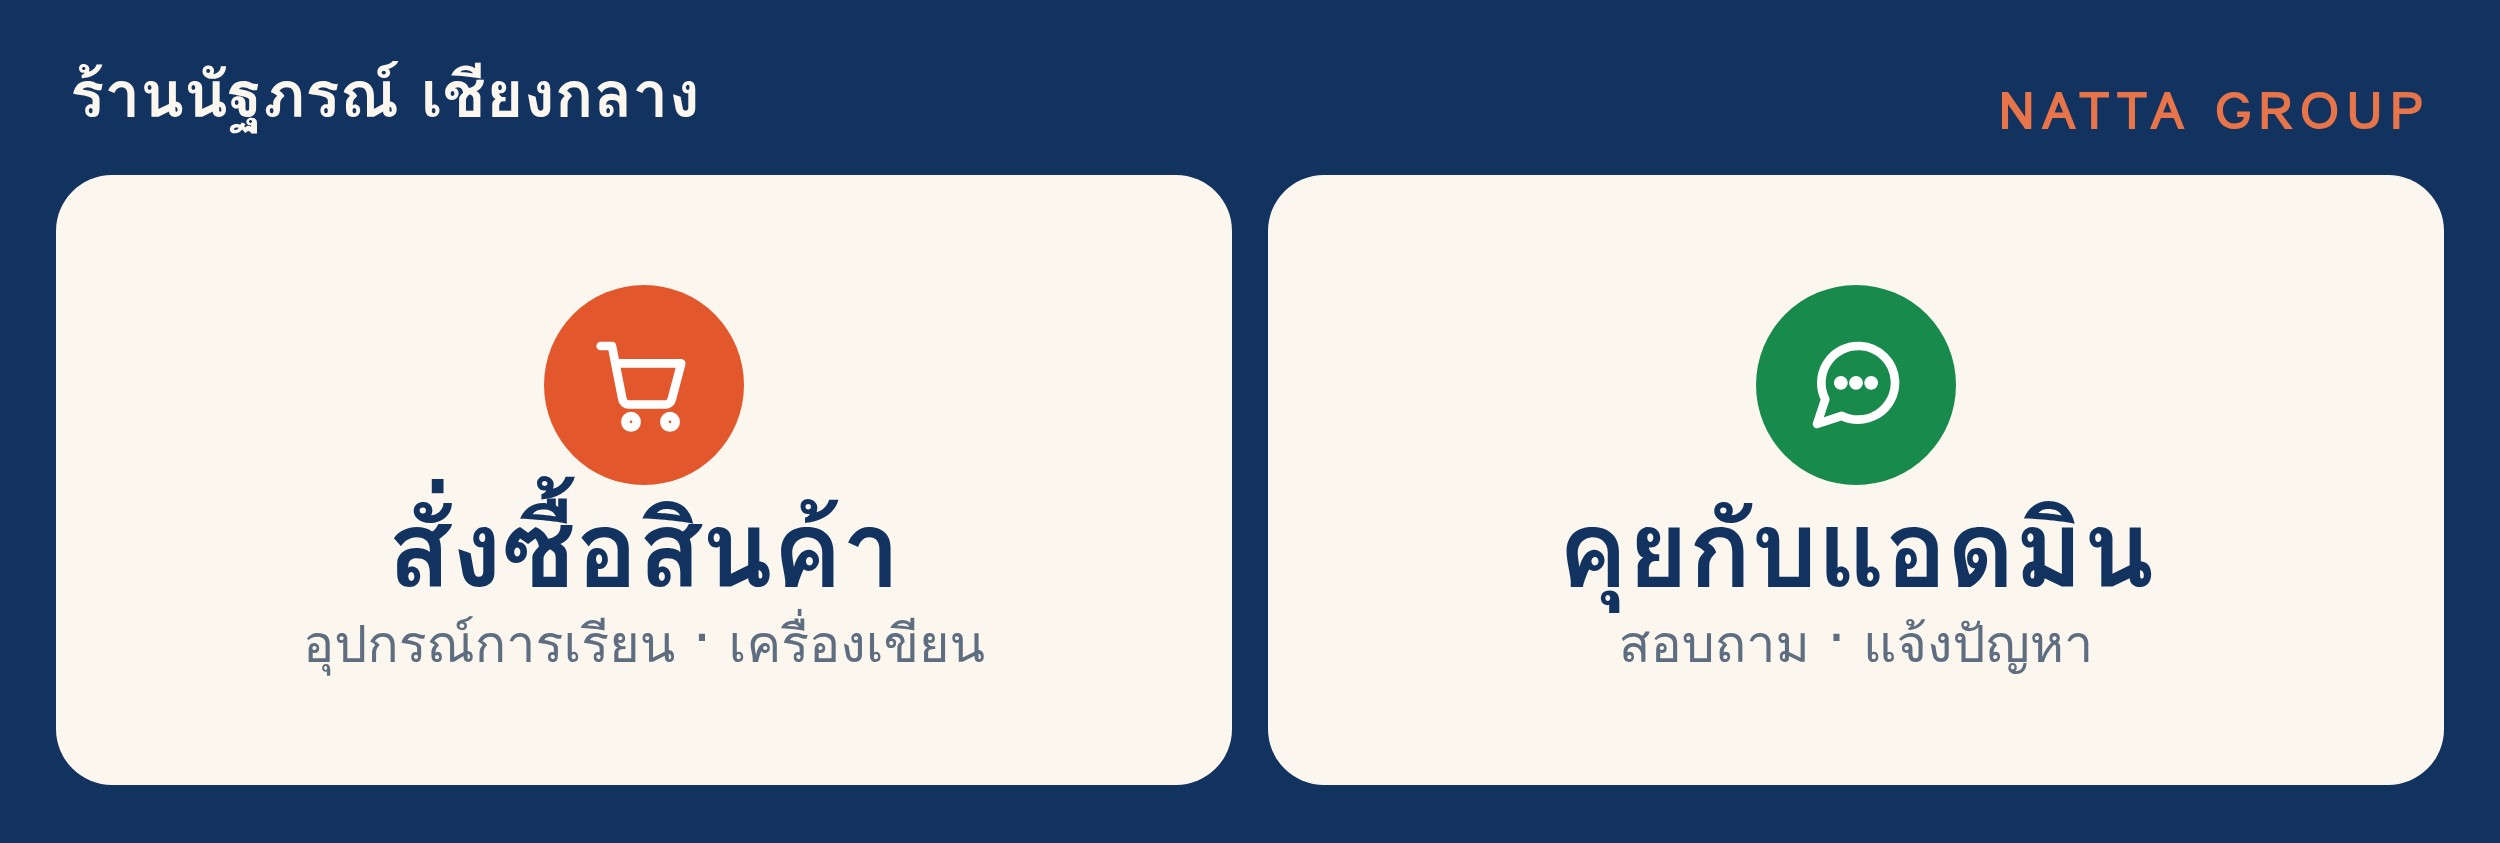
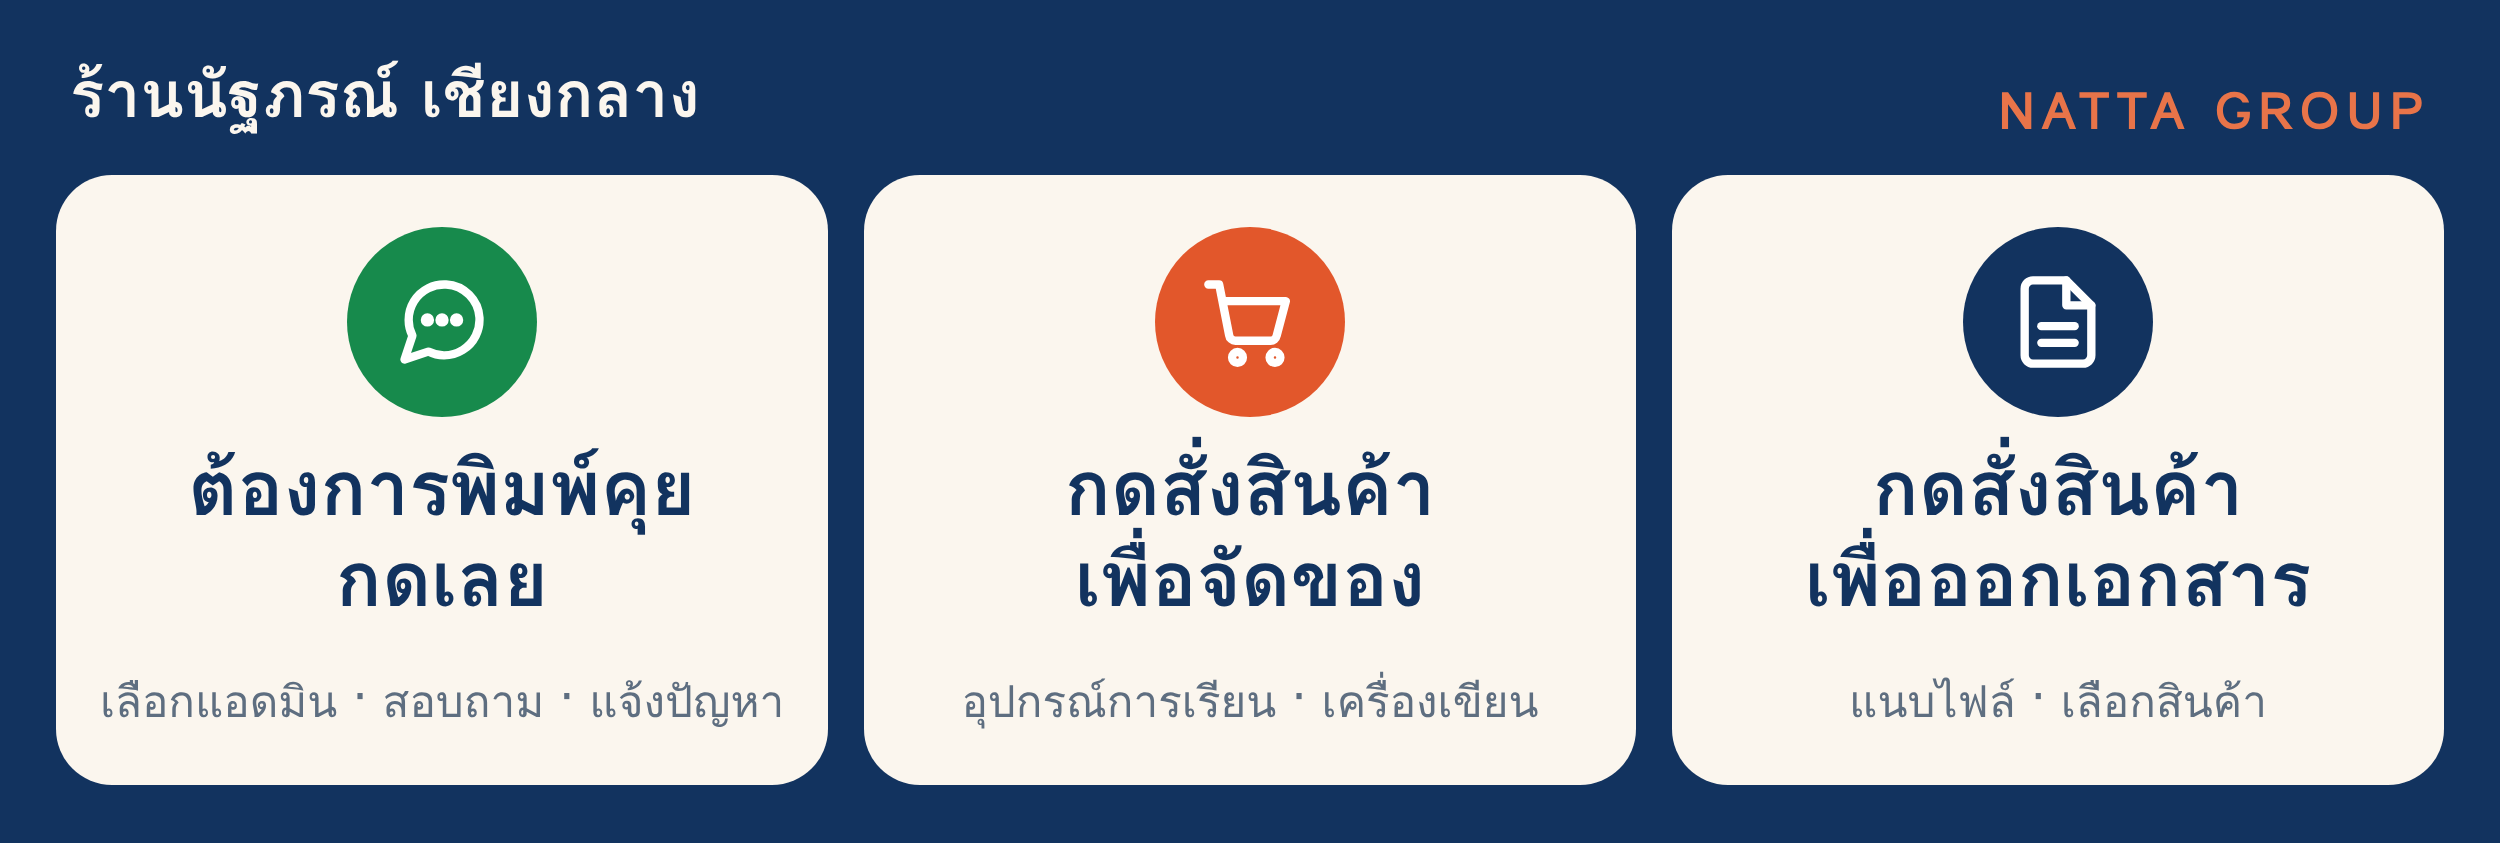
feat(stationery-bot): three-button rich menu — talk to an admin, order for picking, order with documents
The owner asked for the shop menu under the chat to read:
  1. "ต้องการพิมพ์คุย กดเลย"        → sends "คุยกับแอดมิน"  → the bot asks who to talk to and shows the admin names
  2. "กดสั่งสินค้าเพื่อจัดของ"       → opens https://www.nattagroup.com
  3. "กดสั่งสินค้าเพื่อออกเอกสาร"   → sends "ส่งเอกสารโครงการ"

- assets/richmenu.png: new 2500×843 picture with the three cards (120 KB, under LINE's 1 MB)
- public/richmenu-v2.png: the same file, served at /assets/richmenu-v2.png so the shop app's
  `line-richmenu` function can download it (it checks the SHA-256 before uploading to LINE);
  a test keeps the two copies byte-identical
- shop.json richMenu.areas: the three buttons above (bot's own installer builds the same menu)
- tests: three equal columns (833/833/834) with one uri action, the button texts reach the
  "who do you want to talk to?" card, tap recognition for the new texts
- README: how the live menu is made and how to roll back to v1

Claude-Session: https://claude.ai/code/session_017kYrAdUH6vfQHcrjctLsLJ

Changed region(s): [[0.0312, 0.1851, 0.624, 0.9561], [0.624, 0.1851, 0.936, 0.9561]]

diff --git a/stationery-bot/tests/richmenu.test.js b/stationery-bot/tests/richmenu.test.js
@@ -35,19 +35,32 @@ test('the menu is one row of equal tappable columns, open by default, inside LIN
   assert.deepEqual(m.size, { width: 2500, height: 843 });
   assert.equal(m.selected, true);
   assert.ok([...m.chatBarText].length <= 14);
-  assert.equal(m.areas.length, 2);
+  assert.equal(m.areas.length, 3);
   let x = 0;
   for (const a of m.areas) {
     assert.equal(a.bounds.x, x); // no gaps, no overlap
     assert.ok(a.bounds.y >= 0 && a.bounds.y + a.bounds.height <= HEIGHT);
     assert.ok(a.bounds.width > 0);
     x += a.bounds.width;
-    assert.equal(a.action.type, 'message');
+    assert.ok(['message', 'uri'].includes(a.action.type));
     assert.ok([...a.action.label].length <= 20);
   }
   assert.equal(x, WIDTH); // the columns cover the whole width
-  assert.deepEqual(m.areas.map((a) => a.action.text), ['สั่งของ', 'ติดต่อแอดมิน']);
+  assert.deepEqual(m.areas.map((a) => a.bounds.width), [833, 833, 834]);
   assert.equal(m.areas[0].bounds.y, 150); // the title strip is not tappable
+});
+
+test('the three buttons: talk to an admin (the bot asks who) · order for picking (the shop site) · order with documents', () => {
+  const [chat, order, docs] = buildRichMenu(shop).areas.map((a) => a.action);
+  assert.equal(chat.type, 'message');
+  assert.equal(chat.text, 'คุยกับแอดมิน');
+  assert.deepEqual([order.type, order.uri], ['uri', 'https://www.nattagroup.com']);
+  assert.equal(docs.type, 'message');
+  assert.equal(docs.text, 'ส่งเอกสารโครงการ');
+  // …and what the first and third buttons send really does bring up the "who do you want to talk to?" card
+  assert.equal(buildReply(chat.text, shop, {}).needsPhotos, true);
+  assert.equal(buildReply(docs.text, shop, {}).needsPhotos, true);
+  assert.equal(buildReply(docs.text, shop, {}).askText, shop.contact.documentAsk);
 });
 
 test('a column can open a web page; only https links are accepted', () => {
@@ -74,6 +87,14 @@ test('the menu picture in the project is exactly what LINE accepts: PNG, 2500×8
   assert.ok(img.bytes.length < MAX_BYTES);
   assert.equal(img.bytes.readUInt32BE(16), 2500);
   assert.equal(img.bytes.readUInt32BE(20), 843);
+});
+
+test('the copy served to the shop app (public/richmenu-v2.png) is the very same picture', () => {
+  // The app's `line-richmenu` function downloads the picture from <host>/assets/richmenu-v2.png and checks its
+  // SHA-256 before uploading it to LINE — so the two files must never drift apart.
+  const served = readFileSync(new URL('../public/richmenu-v2.png', import.meta.url));
+  assert.equal(served.length, readFileSync(IMAGE).length);
+  assert.ok(served.equals(readFileSync(IMAGE)));
 });
 
 test('a missing, oversized, wrong-type or wrong-size picture is explained, not sent to LINE', () => {
@@ -158,7 +179,7 @@ test('admin commands: "ติดตั้งเมนู" / "ลบเมนู"
 });
 
 test('what a menu button or a topic chip sends is recognised as a tap', () => {
-  for (const t of ['สั่งของ', 'ติดต่อแอดมิน', 'เวลาเปิด - ปิด', 'ที่ตั้งร้าน', 'สั่งของค่ะ']) assert.equal(isMenuTap(t, shop), true, t);
+  for (const t of ['คุยกับแอดมิน', 'ส่งเอกสารโครงการ', 'ติดต่อแอดมิน', 'เวลาเปิด - ปิด', 'ที่ตั้งร้าน', 'คุยกับแอดมินค่ะ']) assert.equal(isMenuTap(t, shop), true, t);
   for (const t of ['xyz', 'สั่งของ 3 กล่อง', '', 'ขอถามหน่อย']) assert.equal(isMenuTap(t, shop), false, t);
 });
 

diff --git a/stationery-bot/README.md b/stationery-bot/README.md
@@ -132,17 +132,22 @@ LINE อาจส่งข้อความหลายบรรทัดขอ
 
 ## เมนูถาวรใต้แชท (ริชเมนู)
 
-**ริชเมนูที่ร้านใช้คือ "NATTA เมนูหลัก v1" ที่แอป NATTA GROUP สร้างไว้ใน LINE แล้ว** (1600×540, ข้อความบนแถบ "เมนูร้าน", 3 ช่อง: สั่งซื้อสินค้า → เปิดเว็บ www.nattagroup.com · ส่งเอกสารโครงการ · คุยกับแอดมิน — สองช่องหลังส่งข้อความธรรมดา บอทตอบเหมือนลูกค้าพิมพ์เอง). เมนูที่สร้างผ่าน API จะไม่ขึ้นให้ลูกค้าจนกว่าจะ**ตั้งเป็นเมนูของทุกคน** (`POST /v2/bot/user/all/richmenu/{richMenuId}`; เอาออก = `DELETE /v2/bot/user/all/richmenu`; ดูว่าตั้งอยู่ไหม = `GET /v2/bot/user/all/richmenu` ได้ 404 แปลว่ายังไม่ตั้ง) และ OA Manager ไม่แสดงเมนูที่สร้างผ่าน API จึงเปิด/ปิดจากหน้านั้นไม่ได้
+**ริชเมนูที่ร้านใช้คือ "NATTA เมนูหลัก v2"** ที่ฟังก์ชัน `line-richmenu` ของแอป NATTA GROUP สร้างไว้ใน LINE (2500×843, ข้อความบนแถบ "เมนูร้าน", 3 ช่อง ตามรูป `assets/richmenu.png`):
+1. **ต้องการพิมพ์คุย กดเลย** → ส่งข้อความ "คุยกับแอดมิน" → บอทถาม "ต้องการติดต่อใครคะ" แล้วขึ้นปุ่มชื่อแอดมินให้เลือก
+2. **กดสั่งสินค้าเพื่อจัดของ** → เปิดเว็บ www.nattagroup.com
+3. **กดสั่งสินค้าเพื่อออกเอกสาร** → ส่งข้อความ "ส่งเอกสารโครงการ" → บอทถามว่าจะส่งเอกสารให้แอดมินคนไหน
+
+ฟังก์ชันดึงรูปจาก `https://nattagroup-y.onrender.com/assets/richmenu-v2.png` (ไฟล์ `public/richmenu-v2.png` ต้องเหมือน `assets/richmenu.png` ทุกไบต์ — มีเทสต์เฝ้า) และตรวจ SHA-256 ก่อนอัปโหลดให้ LINE · เมนูเดิม "NATTA เมนูหลัก v1" (3 ช่องแบบเก่า) ยังอยู่ใน LINE เผื่อย้อนกลับ (ตั้งกลับด้วย `POST /v2/bot/user/all/richmenu/{id}` หรือสั่ง `on` ที่ฟังก์ชัน). เมนูที่สร้างผ่าน API จะไม่ขึ้นให้ลูกค้าจนกว่าจะ**ตั้งเป็นเมนูของทุกคน** (`POST /v2/bot/user/all/richmenu/{richMenuId}`; เอาออก = `DELETE /v2/bot/user/all/richmenu`; ดูว่าตั้งอยู่ไหม = `GET /v2/bot/user/all/richmenu` ได้ 404 แปลว่ายังไม่ตั้ง) และ OA Manager ไม่แสดงเมนูที่สร้างผ่าน API จึงเปิด/ปิดจากหน้านั้นไม่ได้
 - ปุ่ม "คุยกับแอดมิน" ได้การ์ดเลือกแอดมินเสมอ: ถ้าเปิด `admin_pick` ของแอปก็เป็นการ์ดของแอป (เงียบ 24 ชม.) ถ้ายังปิดอยู่บอทนี้ตอบการ์ด "ต้องการติดต่อใครคะ" เอง (`contact.buttonAliases` = คำที่นับเท่ากับ "ติดต่อแอดมิน")
 
-ตัวติดตั้งในบอทนี้ (ด้านล่าง) ทำเมนูของบอทเองด้วยรูป `assets/richmenu.png` (2500×843, 2 ช่อง) — เมื่อแอดมินพิมพ์ "ติดตั้งเมนู ทับ" เมนูนี้จะแทนเมนูของแอปที่ใช้อยู่:
+ตัวติดตั้งในบอทนี้ (ด้านล่าง) ทำเมนูหน้าตาเดียวกัน (รูปเดียวกัน 3 ช่องเดียวกัน ตั้งที่ `richMenu.areas`) — เมื่อแอดมินพิมพ์ "ติดตั้งเมนู ทับ" เมนูนี้จะแทนเมนูของแอปที่ใช้อยู่ โดยลูกค้าเห็นเหมือนเดิม:
 - ช่องในเมนูตั้งเป็นลิงก์เว็บได้ด้วย `{ "label": "สั่งซื้อสินค้า", "uri": "https://…" }` (ต้อง https) นอกเหนือจากช่องที่ส่งข้อความ (`text`)
 - **เปิดให้ติดตั้งได้แล้ว (`richMenu.enabled: true`)** — บอทไม่ทำอะไรกับเมนูจนกว่าแอดมินจะพิมพ์คำสั่ง และถ้ามีเมนูอื่นตั้งเป็นของทุกคนอยู่ (เช่น เมนูของแอป NATTA GROUP ข้างบน) บอทจะไม่ทับ เว้นแต่พิมพ์ "ติดตั้งเมนู ทับ" · ตั้งเป็น `false` เพื่อปิดคำสั่งติดตั้ง (ลบเมนูยังใช้ได้)
 - **ติดตั้ง:** แอดมินพิมพ์ **"ติดตั้งเมนู"** ในแชทกับ OA (ต้องเป็นบัญชีแอดมินของร้าน) — บอทอัปโหลดรูปและตั้งเป็นเมนูของทุกคนเอง แล้วบอกผลกลับ ถ้ามีเมนูอื่นที่ระบบอื่นตั้งไว้ผ่าน API บอทจะไม่ทับ เว้นแต่พิมพ์ **"ติดตั้งเมนู ทับ"**
 - **เอาออก:** พิมพ์ **"ลบเมนู"** (ลบเฉพาะเมนูที่บอทนี้สร้าง ชื่อ `richMenu.name` — ไม่แตะเมนูอื่นของ OA) · **"ลบเมนู" ไม่ได้คืนเมนูของแอป**: เมนู "NATTA เมนูหลัก v1" ยังอยู่ใน OA แต่ไม่เป็นเมนูของทุกคนอีก ลูกค้าจะไม่เห็นเมนูจนกว่าจะติดตั้งใหม่หรือตั้งเมนูของแอปกลับ (`POST /v2/bot/user/all/richmenu/{id}`)
-- ปุ่มแต่ละช่องตั้งที่ `richMenu.areas` (ข้อความที่ปุ่มส่งเป็นข้อความของลูกค้า บอทตอบเหมือนลูกค้าพิมพ์เอง): สั่งซื้อสินค้า → "สั่งของ", คุยกับแอดมิน → "ติดต่อแอดมิน" (2 ช่อง; ช่องส่งเอกสารโครงการเอาออกแล้ว พิมพ์ "ส่งเอกสารโครงการ" ยังทำงานเหมือนเดิม)
+- ปุ่มแต่ละช่องตั้งที่ `richMenu.areas` (ช่องที่เป็น `text` ส่งข้อความนั้นเป็นข้อความของลูกค้า บอทตอบเหมือนลูกค้าพิมพ์เอง · ช่องที่เป็น `uri` เปิดเว็บ): คุยกับแอดมิน → "คุยกับแอดมิน" · สั่งสินค้าจัดของ → www.nattagroup.com · สั่งสินค้าออกเอกสาร → "ส่งเอกสารโครงการ" — ชื่อ (`label`) ยาวได้ไม่เกิน 20 ตัวอักษร LINE ใช้เป็นคำอ่านให้ผู้ใช้ที่ใช้โปรแกรมอ่านจอ ส่วนข้อความบนปุ่มที่ลูกค้าเห็นอยู่ในรูป
 - ปุ่มลัดด้านบนของแชท (`quickReplies` ของบอทนี้ และ `old_chips` ของบอทแอป) มีแค่ "เวลาเปิด - ปิด" และ "ที่ตั้งร้าน"
-- เปลี่ยนรูป: แทนที่ `assets/richmenu.png` (ต้อง PNG/JPEG ขนาด 2500×843 ไม่เกิน 1 MB) แล้วพิมพ์ "ติดตั้งเมนู" ใหม่ (เมนูเก่าชื่อเดียวกันจะถูกแทนที่)
+- เปลี่ยนรูป: แทนที่ **ทั้ง** `assets/richmenu.png` และ `public/richmenu-v2.png` ด้วยไฟล์เดียวกัน (ต้อง PNG/JPEG ขนาด 2500×843 ไม่เกิน 1 MB — เทสต์จะล้มถ้าสองไฟล์ไม่เหมือนกัน) แล้วสร้างเมนูใหม่ (พิมพ์ "ติดตั้งเมนู" หรือสั่ง `apply` ที่ฟังก์ชัน; เมนูเก่าชื่อเดียวกันของบอทจะถูกแทนที่)
 - ข้อจำกัดของ LINE: ริชเมนูกับแป้นพิมพ์ใช้พื้นที่เดียวกัน กดช่องพิมพ์แล้วเมนูจะหุบ กดไอคอนเมนูมุมซ้ายล่างเพื่อเปิดกลับ; แสดงเฉพาะในแอปมือถือ
 - การแตะปุ่มเมนู/ปุ่มหัวข้อคนละปุ่มติดกันไม่ถูกตัดตามกติกา "ตอบครั้งเดียว" และปลุกบอทได้แม้อยู่ในช่วงเงียบหลังเลือกแอดมิน
 - ลูกค้าส่งไฟล์ (PDF ฯลฯ) → บอทตอบ "ได้รับไฟล์แล้ว" และแจ้งแอดมิน (ไม่เกิน 1 ครั้งต่อลูกค้าต่อ 5 ชั่วโมง) บอทไม่อ่านไฟล์
